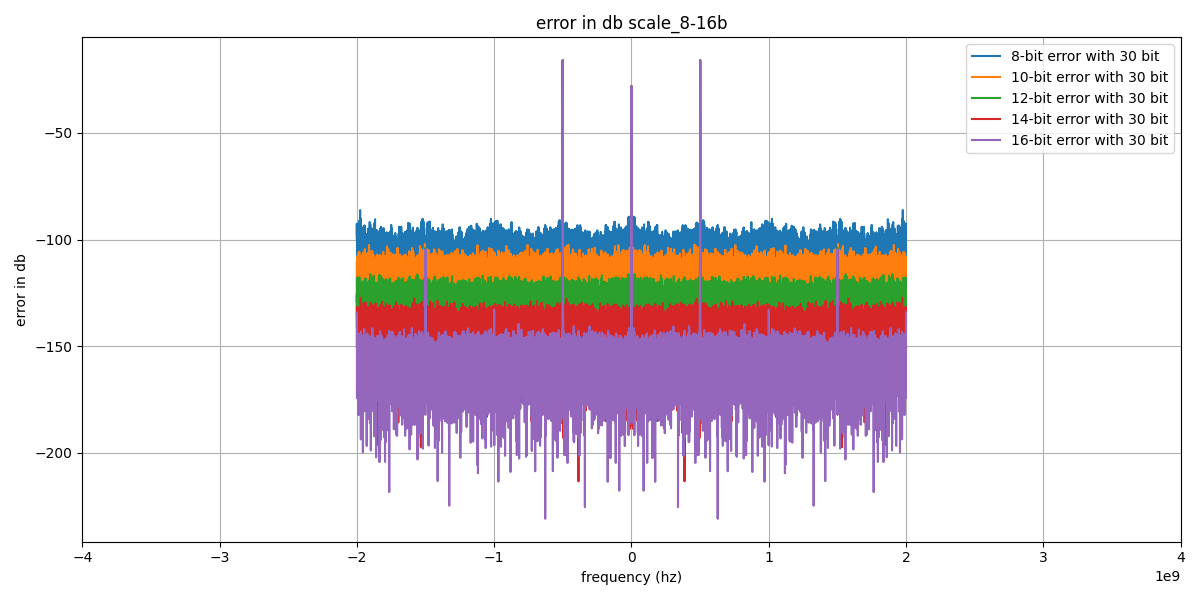
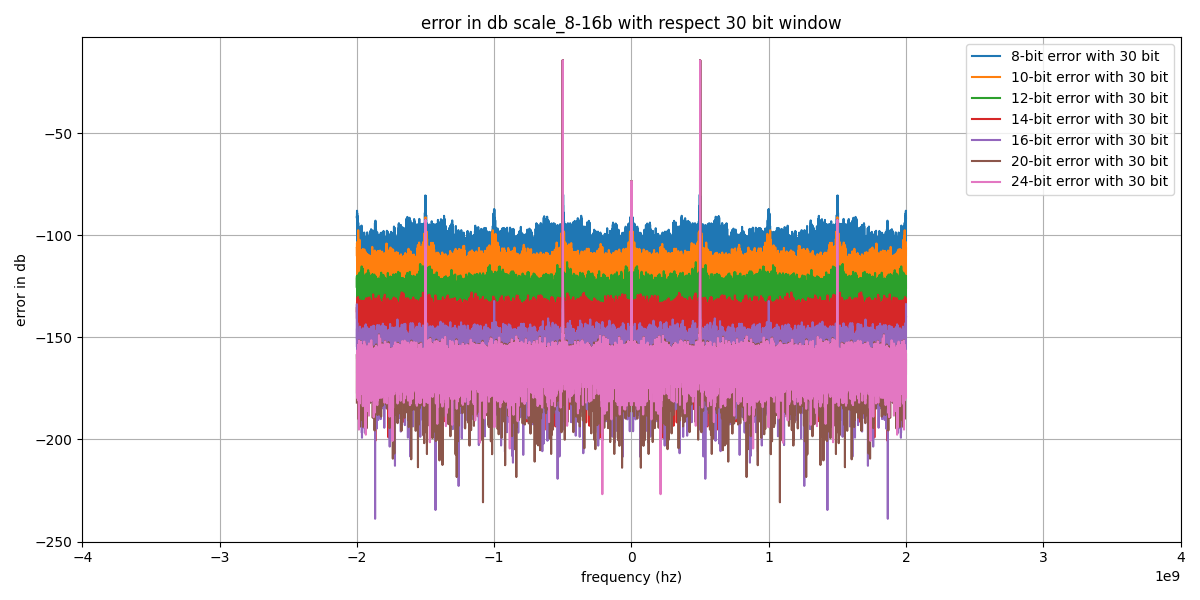
done

diff --git a/apsera_sim/truncation_after_fft.py b/apsera_sim/truncation_after_fft.py
@@ -5,7 +5,7 @@ from sine_input import sine_curve
 from adc import sample,adc
 from window import window_bits
 from fft_return_complex import fft_complex
-from truncating import truncate
+from truncating import truncate,truncate_after_fft
 
 M = 16
 N = 1024
@@ -54,8 +54,14 @@ im_part_int = (np.round(im_part)).astype(np.int64)
 
 index_signal_1 = np.array(im_part_int).argmax()
 index_signal_2 = np.array(im_part_int).argmax()
-print("max re (signed 32-bit):", format((re_part_int[index_signal_1]) & 0xFFFFFFFF, '#034b'))
-print("max im (signed 32-bit):", format((im_part_int[index_signal_1]) & 0xFFFFFFFF, '#034b'))
+print("max real part (signed 32-bit):", format((re_part_int[index_signal_1]) & 0xFFFFFFFF, '#034b'))
+print("max imaginary part (signed 32-bit):", format((im_part_int[index_signal_1]) & 0xFFFFFFFF, '#034b'))
+
+re_part_trunc,im_part_trunc = truncate_after_fft(re_part_int,im_part_int,fft_points)
+
+index_signal_trunc = np.array(im_part_trunc).argmax()
+print("Max integer after truncation", max(im_part_trunc))
+print("max imaginary after truncation (signed 32-bit):", format((im_part_trunc[index_signal_trunc]) & 0xFFFFFFFF, '#020b'))
 
 # from observed values truncating to 25 bits seems to retain fft properties therefore shaving from MSB till 25 bits
 # also rounding to 18 bits to keep withing DSP 48 slice

diff --git a/apsera_sim/truncating.py b/apsera_sim/truncating.py
@@ -26,12 +26,12 @@ def truncate_after_fft(re_part_int,im_part_int,fft_points):
 
     for i in range(fft_points):
         if re_part_int[i]>=0:
-            re_part_int[i] = (re_part_int[i]%(2**24))//2**6 
+            re_part_int[i] = (re_part_int[i]%(2**25))//2**7 
         if re_part_int[i]<0:
-            re_part_int[i] = -((-(re_part_int[i])%(2**24))//2**6)
+            re_part_int[i] = -((-(re_part_int[i])%(2**25))//2**7)
         if im_part_int[i]>=0:
-            im_part_int[i] = (im_part_int[i]%(2**24))//2**6        
+            im_part_int[i] = (im_part_int[i]%(2**25))//2**7       
         if im_part_int[i]<0:
-            im_part_int[i] = -((-(im_part_int[i])%(2**24))//2**6)
+            im_part_int[i] = -((-(im_part_int[i])%(2**25))//2**7)
     
     return re_part_int,im_part_int

diff --git a/apsera_sim/Truncation_after_window.py b/apsera_sim/Truncation_after_window.py
@@ -12,7 +12,7 @@ M = 16
 N = 1024
 P = M*N
 alpha = 1
-n_bits = [8,10,12,14,16]
+n_bits = [8,10,12,14,16,20,24]
 adc_bits = 12
 w_bit = 18
 v_ref = 0.7962 # to keep output power that is adc at 2dBm of input 
@@ -78,7 +78,7 @@ for bit in n_bits:
 
 plt.title("30 and n_bits fft ")
 plt.xlabel("Frequency (Hz)")
-plt.ylabel("|X(f)| in db")
+plt.ylabel("|X(f)|/max(|X(f)|) in db")
 plt.xlim(-4000e6, 4000e6)
 plt.grid(True)
 plt.legend()
@@ -90,7 +90,7 @@ plt.close()
 plt.figure(figsize=(12,6))
 for bit in n_bits:
     plt.plot(freq_truncated,diff[bit],label = f'{bit}-bit error with 30 bit')
-plt.title('error in db scale_8-16b')
+plt.title('error in db scale_8-16b with respect 30 bit window')
 plt.xlabel('frequency (hz)')
 plt.ylabel("error in db")   
 plt.xlim(-4000e6, 4000e6)

diff --git a/apsera_sim/accumalation.py b/apsera_sim/accumalation.py
@@ -20,7 +20,7 @@ f2 = 5e8
 sampling_rate = 1e12 # for producing sine wave
 adc_sampling_rate = 4e9
 fft_points = 2**14
-acc = 64
+acc = 4096
 x = 0
 y = fft_points
 
